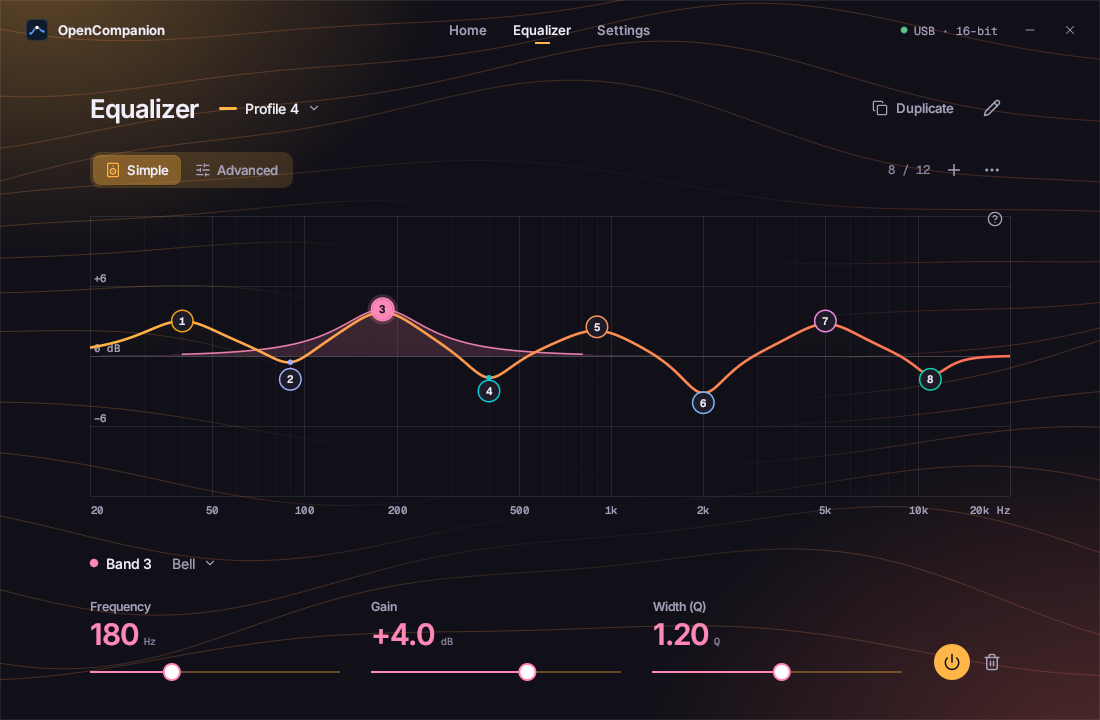
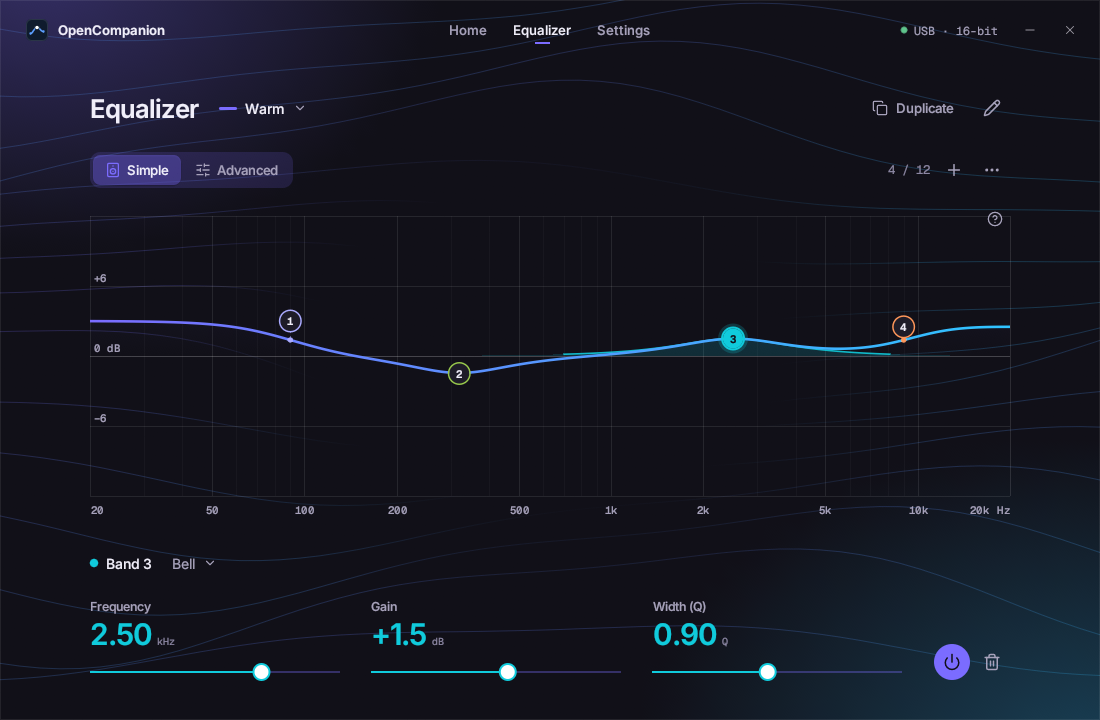
Docs: cleaner equalizer screenshot

diff --git a/app/crates/oc-app/src/app/shots.rs b/app/crates/oc-app/src/app/shots.rs
@@ -164,6 +164,20 @@ fn steps() -> Vec<Step> {
             }),
         );
     }
+    // README: a gentle, realistic curve (warm bass, slight presence, air).
+    add(
+        "readme-equalizer",
+        Box::new(|a, _| {
+            eq_editable(a);
+            a.device.rename_profile(3, "Warm");
+            let g = a.ui.eq.draft.get_mut(Target::Global);
+            g.push(Band::new(BandType::LowShelf, 90.0, 3.0, 0.71));
+            g.push(Band::new(BandType::Peak, 320.0, -1.5, 1.0));
+            g.push(Band::new(BandType::Peak, 2500.0, 1.5, 0.9));
+            g.push(Band::new(BandType::HighShelf, 9000.0, 2.5, 0.71));
+            a.ui.eq.selected = 2;
+        }),
+    );
     add(
         "equalizer-test-adv",
         Box::new(|a, _| {
@@ -290,7 +304,7 @@ fn steps() -> Vec<Step> {
                 a.ui.light = true;
             }),
         });
-        if ["equalizer", "settings-sound", "settings-legal", "install-confirm", "onboarding", "onboarding-welcome", "restore-power-cycle"].contains(&s.name.as_str()) {
+        if ["equalizer", "readme-equalizer", "settings-sound", "settings-legal", "install-confirm", "onboarding", "onboarding-welcome", "restore-power-cycle"].contains(&s.name.as_str()) {
             let e = setup.clone();
             all.push(Step {
                 name: format!("{}-en", s.name),

diff --git a/README.md b/README.md
@@ -18,7 +18,7 @@
 | Updates | none | from the app (firmware from this project's GitHub releases) |
 | Safety net | none | automatic backup of the Bose firmware, restore in a few clicks |
 
-Works on Windows, macOS and Linux. No driver to install (one udev rule on Linux).
+Works on Windows, macOS and Linux.
 
 <p>
   <img src="docs/images/equalizer.png" width="49%" alt="Equalizer with eight bands">
